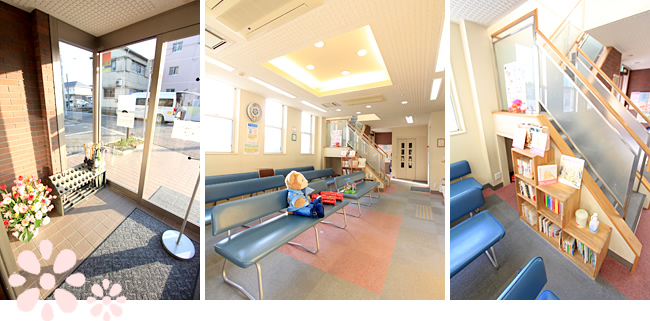
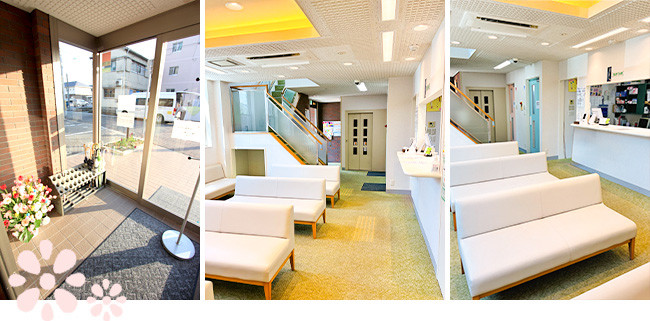
インフルエンザ予防接種(2026年度)のお知らせ追加・院内紹介の文言と画像を更新

diff --git a/index.html b/index.html
@@ -235,6 +235,43 @@
     <dd><span class="hako">New</span>9月25日水曜日は都合により診療時間を午前12時で終了致します。<br />
       ご迷惑をおかけ致しますが宜しくお願い申し上げます。</dd>-->
 
+            <dt>2026/09/11</dt>
+            <dd><strong class="redtxt">インフルエンザ予防接種(2026年度)について</strong><br />
+              <br />
+              <span class="buletxt">当院ではフルミストワクチンを導入しております。</span> <br />
+              <span class="redtxt">フルミストワクチンについては下記詳細</span><br />
+              フルミストの詳細(弱毒性生ワクチン)<br />
+              対象年齢は2歳～18歳までです。<br />
+              鼻の穴に少しの液体(0.1ml)<br />
+              を左右1回ずつ計2回噴霧するだけなので苦痛は注射に比べて少ないのが特徴です。12歳までの小児は注射でのワクチン接種回数は2回ですので子どもにとってはやさしいワクチンと思われます。<br />
+              <br />
+              <span class="redtxt">予約受付中</span><br />
+              予約方法は午前10時～12時30分 午後18時～19時30分に医院受付にご来院いただきますか、お電話でご予約ください(<span
+                class="redtxt">インターネット、電話予約専用ダイヤルでは予約が出来ませんのでご注意くださいますようお願いいたします</span>)<br />
+              <br />
+              接種開始／<span class="redtxt">10月1日から</span><br />
+              接種時間／午前診は9時45分から12時　午後診は17時45分から19時<br />
+              <br />
+              <p>不活化ワクチン　対象年齢と料金<br />
+                6ヶ月から3歳未満
+                3歳から13歳未満 ／
+                2回接種　料金3,000円</p>
+              <p>13歳以上 ／
+                1回接種　料金3,000円<br />
+                65歳以上 ／ 1回接種　料金1,500円<br />
+                <br />
+                生ワクチン　<br />
+                フルミスト点鼻液<br />
+                接種対象年齢　　2歳から18歳　
+                1回のみ／
+                料金7,000円<br />
+                <br />
+                <span class="redtxt">下記ご留意ください。</span><br />
+                ・18歳未満の方は保護者の同意が必要となりますので予約時、接種時は必ず保護者の方とご同伴ください。<br />
+                ・接種予約日より一週間以内にご本人、同居されているご家族に発熱や体調不良があった場合は接種出来ませんので必ずご連絡ください<br />
+                ・基本、完全予約制です。当日に空きがある場合は接種可能ですが必ず事前にご確認のご連絡をお願いいたします。
+              </p>
+            </dd>
             <dt>2026/07/22</dt>
             <dd><strong class="redtxt"><span class="hako">New</span>夏季休診のお知らせ</strong><br />
               <span
@@ -251,41 +288,6 @@
     <dt>2025/12/05</dt>
     <dd><strong class="redtxt">年末年始休業のお知らせ</strong><br />
         2025年12月29日(月)12時～2026年1月4日（日）までを年末年始休業といたします。年始は5日(月)9時よりとなります。ご迷惑をおかけいたしますが何卒よろしくお願い申し上げます。</dd>
-         <dt>2025/09/24</dt>
-    <dd><strong class="redtxt">インフルエンザ予防接種(2025年度)について</strong><br />
-      <br />
-      <span class="buletxt">今年度よりフルミストワクチン開始いたします。</span> <br />
-        <span class="redtxt">フルミストワクチンについては下記詳細</span><br />
-フルミストの詳細(弱毒性生ワクチン)<br />
-      対象年齢は2歳～18歳までです。<br />
-      鼻の穴に少しの液体(0.1ml)<br />
-      を左右1回ずつ計2回噴霧するだけなので苦痛は注射に比べて少ないのが特徴です。12歳までの小児は注射でのワクチン接種回数は2回ですので子どもにとってはやさしいワクチンと思われます。<br />
-      <br />
-      <span class="redtxt">予約受付開始／9月22日から</span><br />
-予約方法は午前10時～12時30分    午後18時～19時30分に医院受付にご来院いただきますか、お電話でご予約ください(<span class="redtxt">インターネット、電話予約専用ダイヤルでは予約が出来ませんのでご注意くださいますようお願いいたします</span>)<br />
-<br />
-接種開始／<span class="redtxt">10月1日から</span><br />
-接種時間／午前診は9時30分から12時　午後診は17時30分から19時<br />
-<br />
-<p>不活化ワクチン　対象年齢と料金<br />
-  6ヶ月から3歳未満
-  3歳から13歳未満 ／
-  2回接種　料金3,000円</p>
-<p>13歳以上 ／  
-  1回接種　料金3,000円<br />
-  65歳以上 ／ 1回接種　料金1,500円<br />
-  <br />
-  生ワクチン　<br />
-  フルミスト点鼻液<br />
-  接種対象年齢　　2歳から18歳　
-  1回のみ／
-  料金7,000円<br />
-  <br />
-  <span class="redtxt">下記ご留意ください。</span><br />
-  ・18歳未満の方は保護者の同意が必要となりますので予約時、接種時は必ず保護者の方とご同伴ください。<br />
-  ・接種予約日より一週間以内にご本人、同居されているご家族に発熱や体調不良があった場合は接種出来ませんので必ずご連絡ください<br />
-  ・基本、完全予約制です。当日に空きがある場合は接種可能ですが必ず事前にご確認のご連絡をお願いいたします。</p>
-    </dd>
     -->
           </dl>
         </div>

diff --git a/about/index.html b/about/index.html
@@ -15,7 +15,7 @@
   <script type="text/javascript" src="../common/js/rollover.js"></script>
   <!-- InstanceBeginEditable name="head" -->
   <script type="text/javascript">
-    <! 
+    < !
       target = "about";
     //-->
   </script>
@@ -95,9 +95,7 @@
             <div>
               <h3>エントランス～受付・待合室</h3>
               <p class="np">
-                エントランスを抜けてすぐに、受付・待合室があり、お待ちの間は絵本コーナーやおもちゃ、ベビーベッドなどをご用意しておりますので、お気軽にご利用ください。お車でお越しの方は、専用駐車場をご利用いただけます。（医院前駐車場3台、医院南前大きな駐車場24番25番）<br />
-                <span
-                  class="buletxt">院内感染防止対策として、待合室のおもちゃや絵本類は現在撤去しています。待ち時間におもちゃや絵本類の必要な方は各ご家庭からお持ちいただきますよう、ご協力をお願い致します。</span>
+                エントランスを抜けてすぐに、受付・待合室があり、ベビーベッドなどをご用意しておりますので、お気軽にご利用ください。お車でお越しの方は、専用駐車場をご利用いただけます。（医院前駐車場3台、医院南前大きな駐車場24番25番）
               </p>
             </div>
           </div>
@@ -125,7 +123,7 @@
             <div>
               <h3>小休憩スペース</h3>
               <p class="np">
-                2階は階段を上がってすぐに大きなワンちゃんの写真が飾ってある、小休憩できるスペースがあり、その奥にBCG予防接種室と続いています。エレベーターも完備しているので、お気軽にご利用ください。
+                2階は階段を上がってすぐに大きなワンちゃんの写真が飾ってある、小休憩できるスペースがあり、その奥にBCG予防接種室と続いています。エレベーターも完備しているので、ベビーカーでも安心してお越しいただけます。
               </p>
             </div>
           </div>
